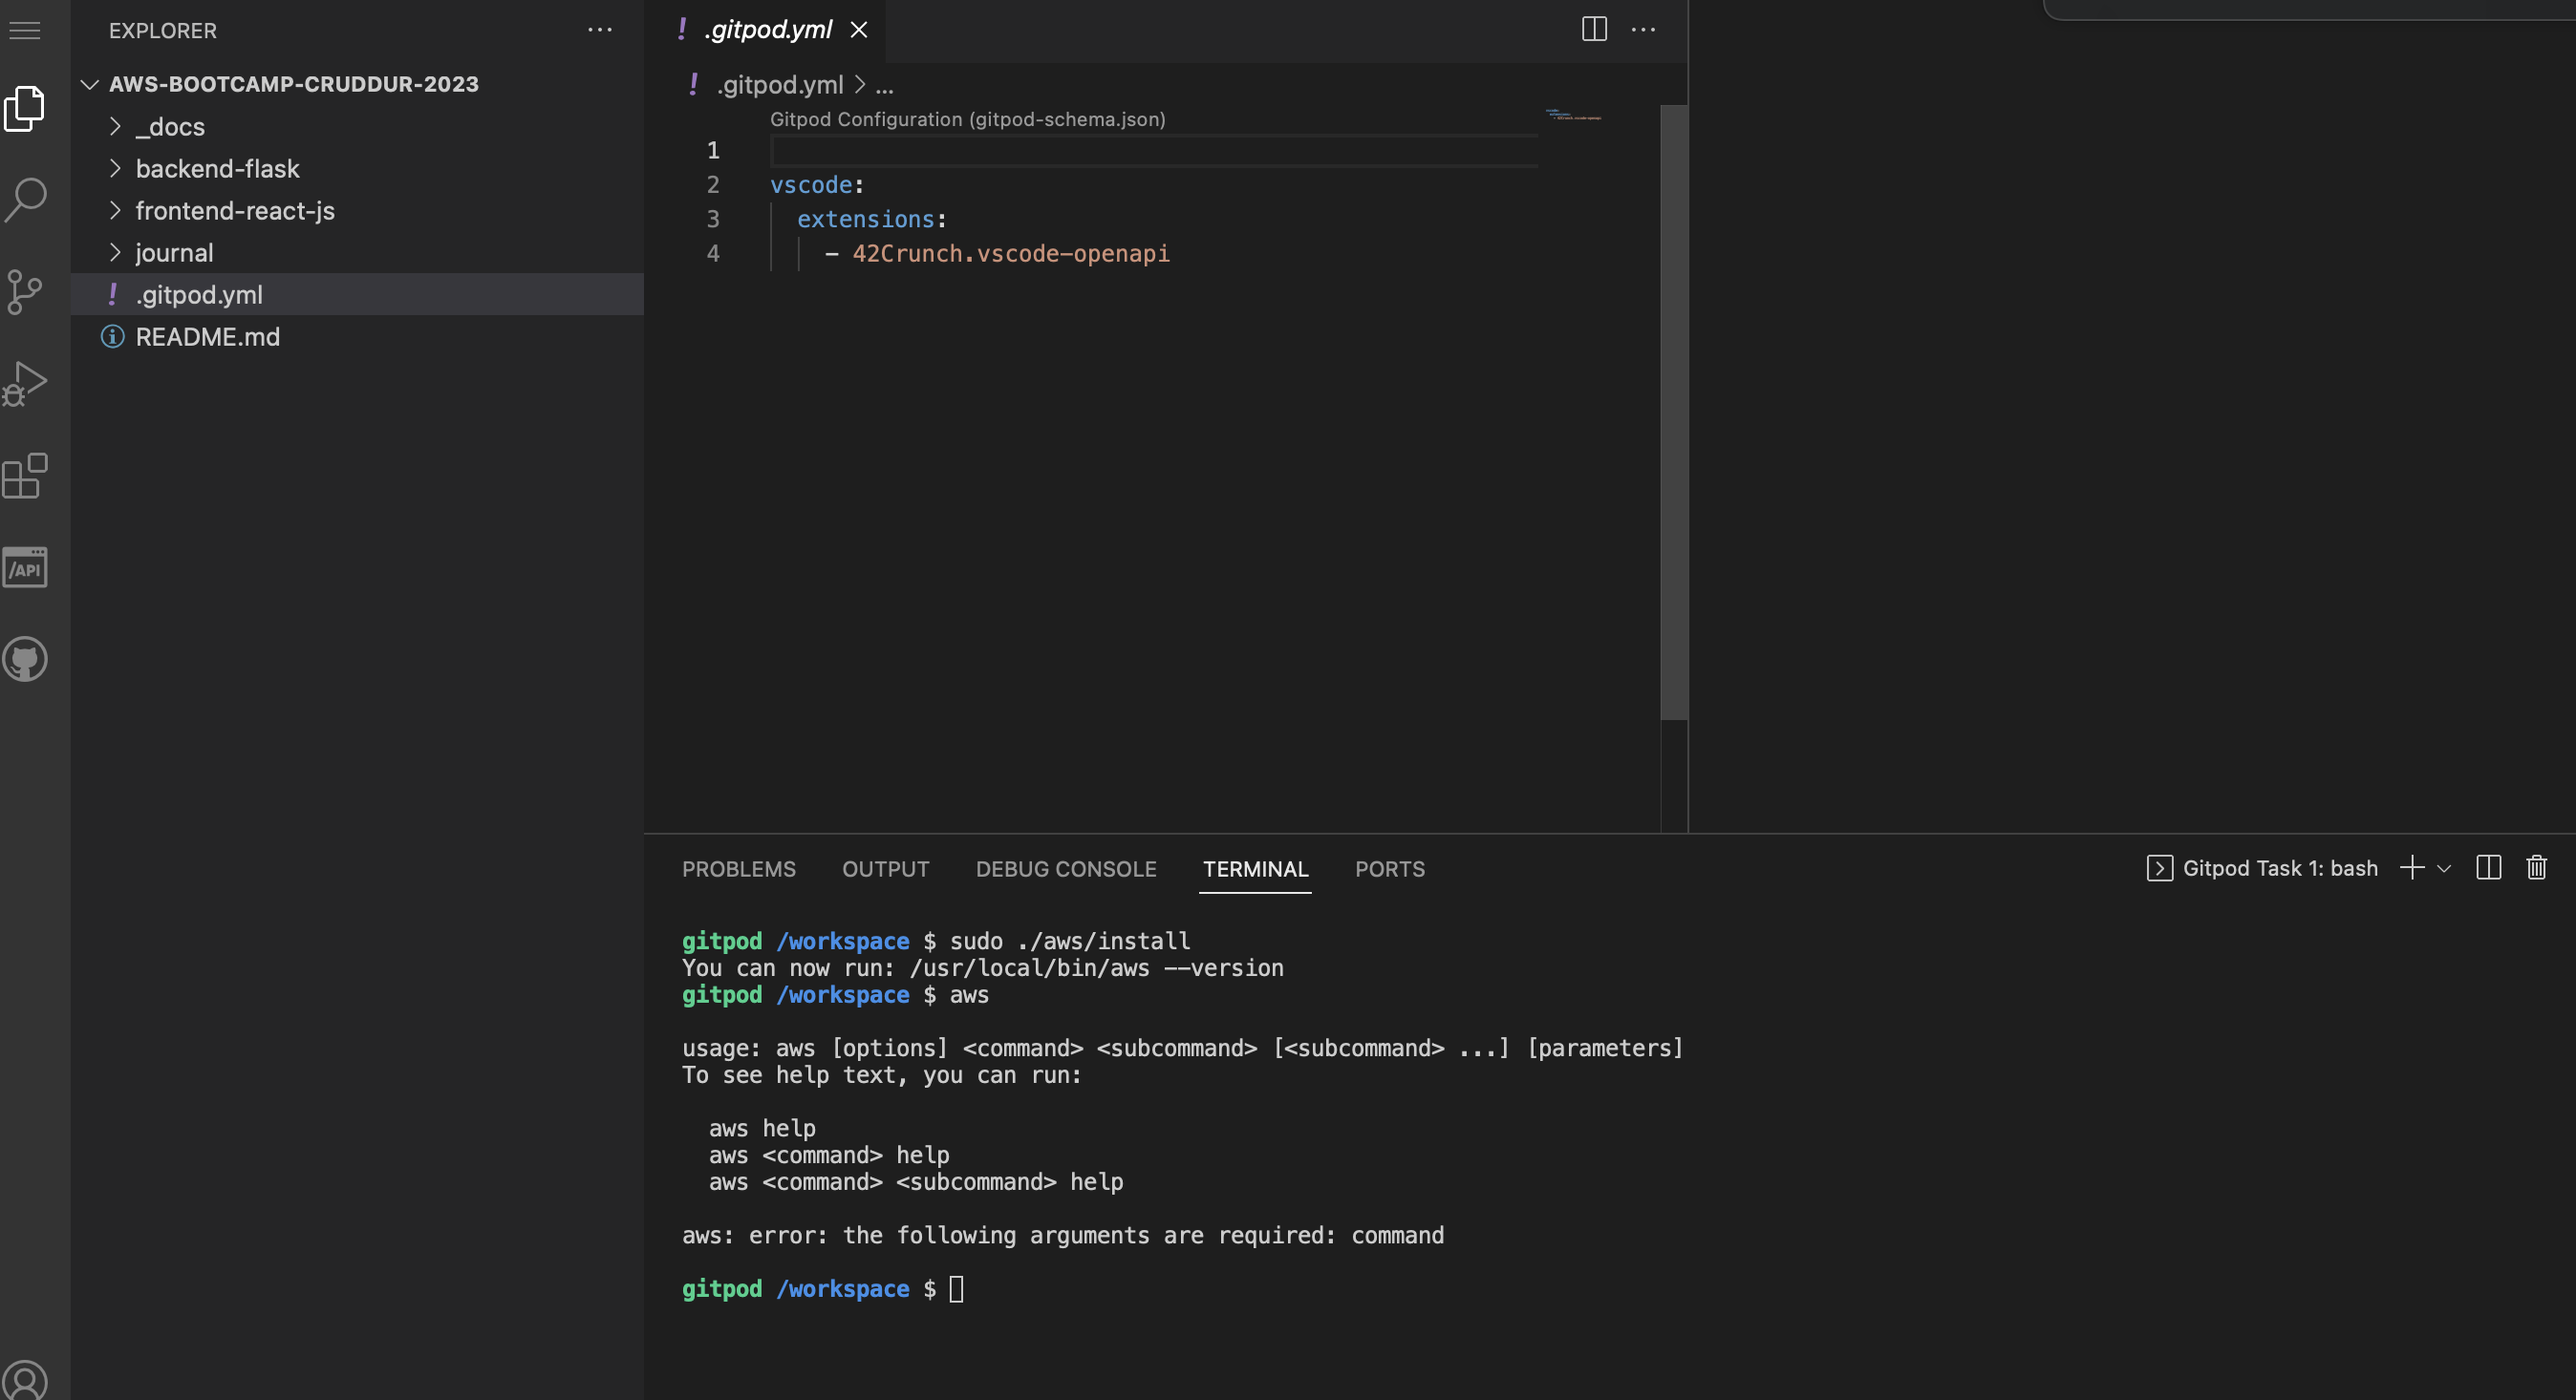
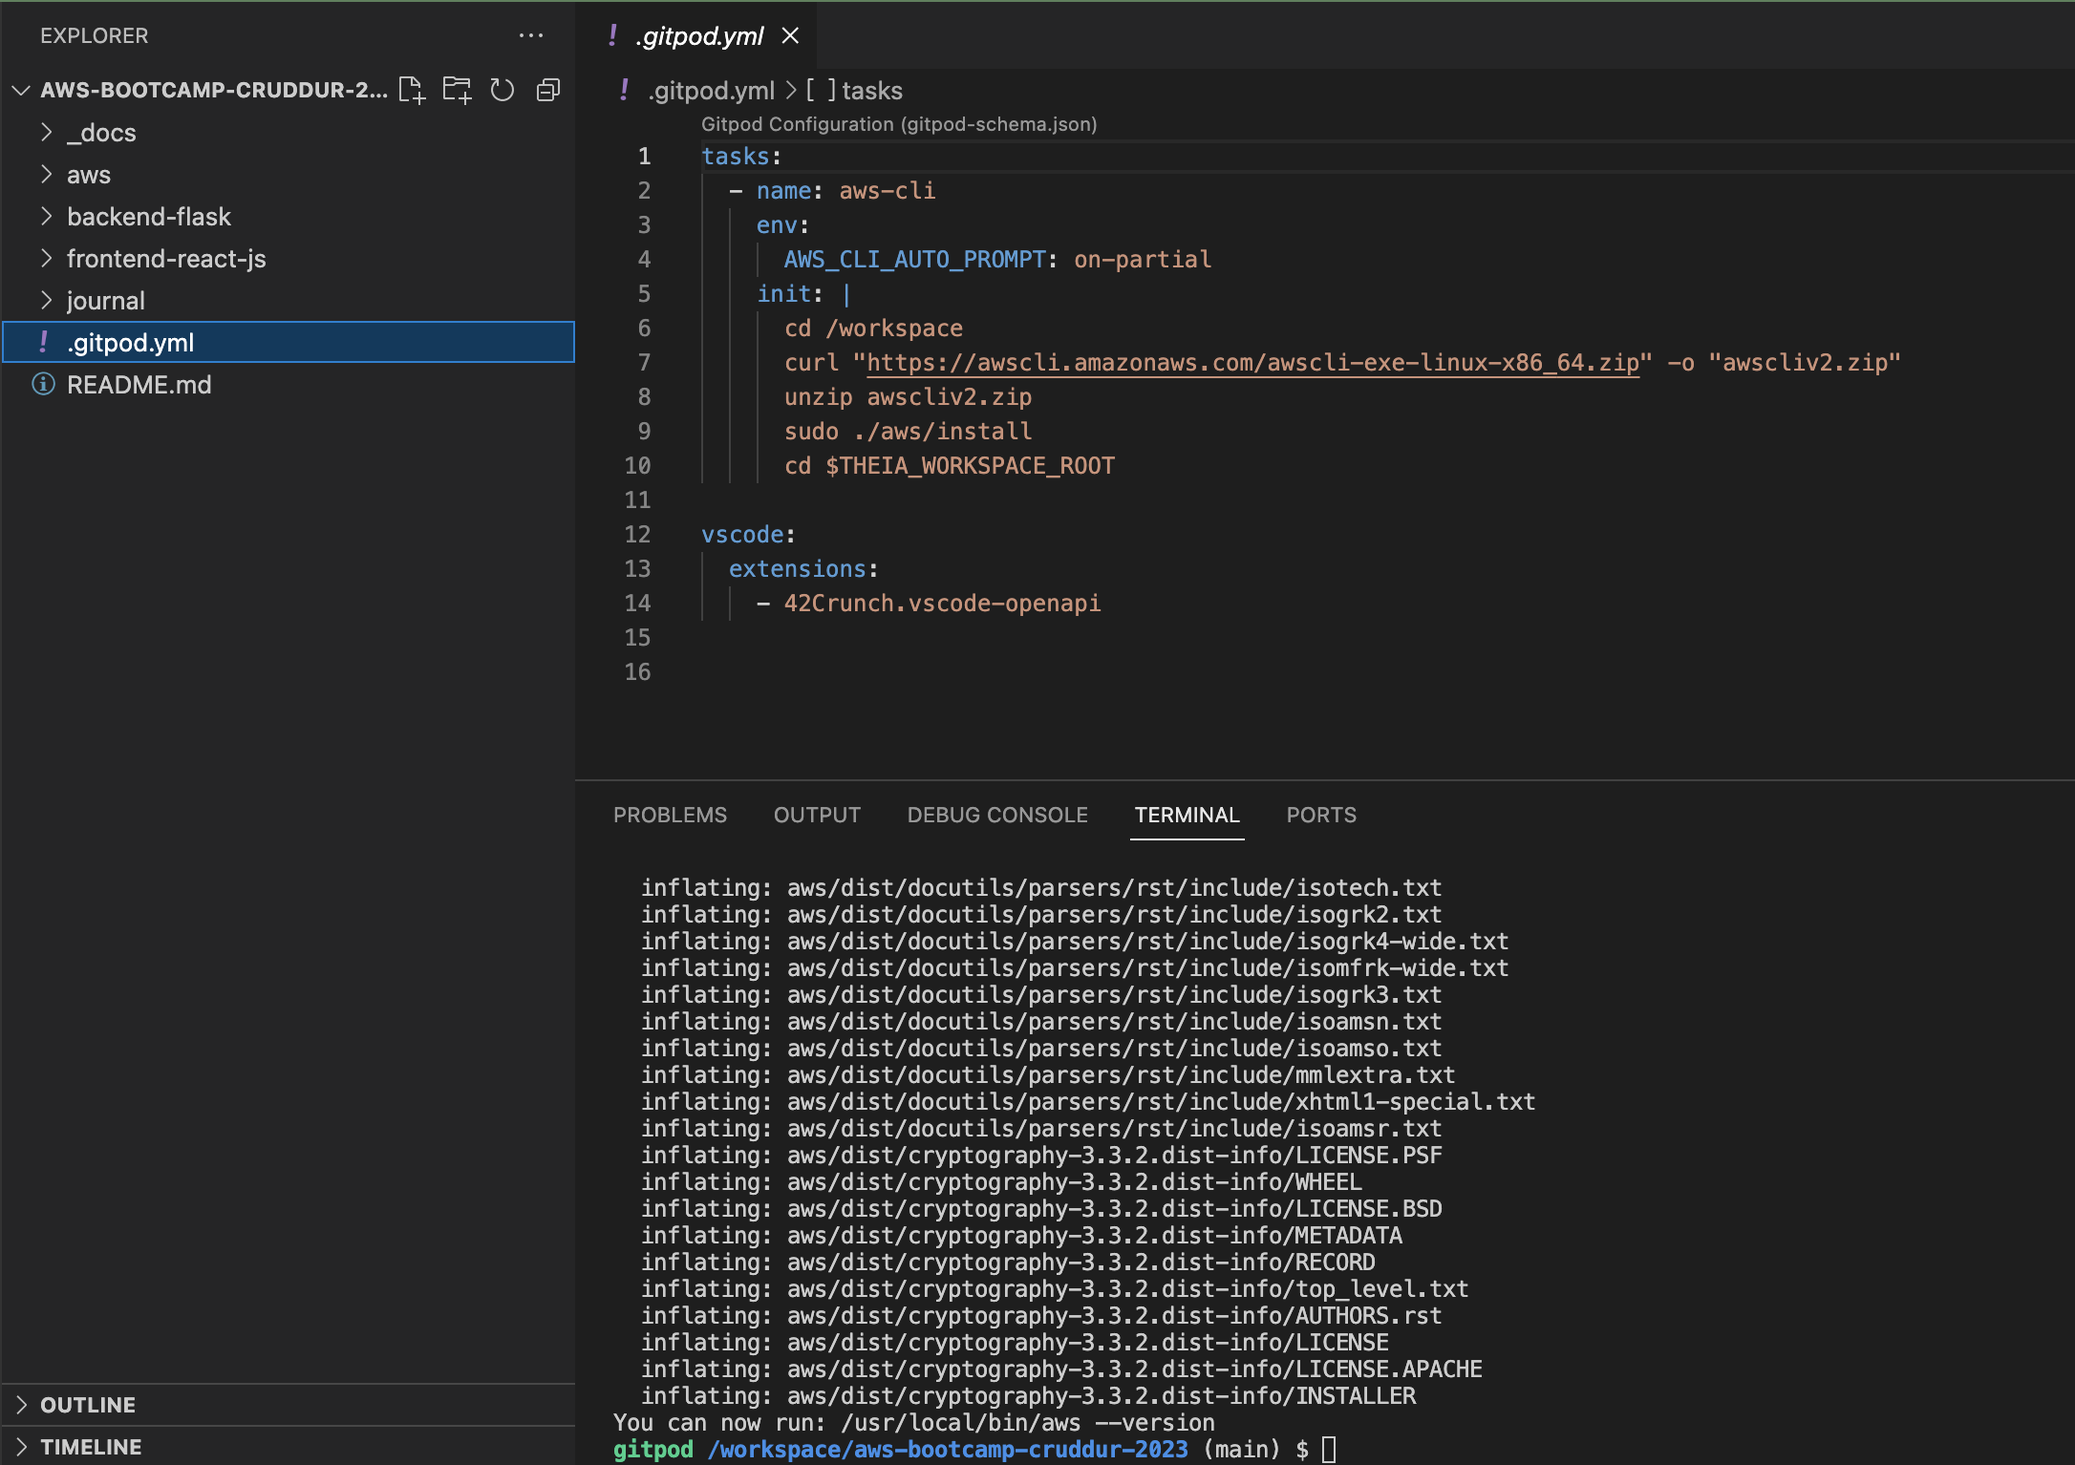
journal modification

diff --git a/journal/week0.md b/journal/week0.md
@@ -1,8 +1,15 @@
 # Week 0 — Billing, Security, and Architecture
 
-## Setup
+Welcome to my first journal for the AWS Cloud Project Free Bootcamp organized by Andrew Brown and his team. Thank you guys!
 
-Welcome to my first journal for the AWS Cloud Project Free Bootcamp organized by Andrew Brown and his team. 
+## App Architecture
+
+![Conceptual Architecture](../_docs/assets/week0/concept.png)
+
+![Logical Architecture](../_docs/assets/week0/logic.png)
+
+Lucidchart was used to illutrate the app conceptual, logical and infrastructural architecture. This is the [link](https://lucid.app/lucidchart/b20676bd-89b1-4ffa-a341-c9c269aef784/edit?viewport_loc=144%2C139%2C1579%2C867%2CZ2-xDaLVWdz9&invitationId=inv_06ff5e3b-1720-45a5-9413-434b1c83bff2) to the architecture. The challenge I had here was having limited number of icons I could use due to my free-tier account. I was able to streamline the architecture to arrive at something meaningful but minimal at the same time.
+## Setup
 
 For the bootcamp, participants were meant to setup some environments being tools for the projects.
 
@@ -18,23 +25,49 @@ Some of them include:
 
 In order to secure the Cloud Infrastructure, monitor cost and adhere to best practises, the following actions were taken.
 
-1. Multi-Factor Authentication (MFA) was enabled on the root user. 
+1. Multi-Factor Authentication (MFA) was enabled on the root user. This is to increase the security of user accounts by adding an extra layer of protection against unauthorized access. 
 
 ![Root MFA](../_docs/assets/week0/root-mfa.png)
 
-For the reason of security and best practices, the root user should not be used for daily activities. Therefore, I created an IAM user, created a group with `Admin` permissions and added the user to the group.
+For the reason of security and best practices, the root user should not be used for daily activities. Therefore, I created an IAM user, created a group, `Admin`, with `AdministratorAccess` permissions and added the user to the group.
 
 ![Root MFA](../_docs/assets/week0/usergroup.png)
 
-To secure this user, MFA was also enabled on it.
+To secure this user, MFA was also enabled on it. I also created and downloaded the CSV file with the user's `Access Key` and `Secret Access Key`.
 
 ![User MFA](../_docs/assets/week0/user-mfa.png)
 
+2. I installed AWS CLI manually on Gitpod. Then modified the `.gitpod.yml` file with the following code so that AWS CLI automatically installs whenever Gitpod workspace is launched.
 
-## App Architecture
+```
+tasks:
+  - name: aws-cli
+    env:
+      AWS_CLI_AUTO_PROMPT: on-partial
+    init: |
+      cd /workspace
+      curl "https://awscli.amazonaws.com/awscli-exe-linux-x86_64.zip" -o "awscliv2.zip"
+      unzip awscliv2.zip
+      sudo ./aws/install
+      cd $THEIA_WORKSPACE_ROOT
+```
 
-![Conceptual Architecture](../_docs/assets/week0/concept.png)
+![AWS CLI](../_docs/assets/week0/cli-install.png)
 
-![Logical Architecture](../_docs/assets/week0/logic.png)
+3. The AWS User credentials were set as environmental variables on the Gitpod bash with the following commands:
 
-Lucidchart was used to illutrate the app conceptual, logical and infrastructural architecture. This is the [link](https://lucid.app/lucidchart/b20676bd-89b1-4ffa-a341-c9c269aef784/edit?viewport_loc=144%2C139%2C1579%2C867%2CZ2-xDaLVWdz9&invitationId=inv_06ff5e3b-1720-45a5-9413-434b1c83bff2) to the architecture.
+```
+export AWS_ACCESS_KEY_ID=""
+export AWS_SECRET_ACCESS_KEY=""
+export AWS_DEFAULT_REGION=us-east-1
+```
+The variables were then subsisted with the following commands so that Gitpod 'remembers' them at relaunch.
+
+```
+gp env AWS_ACCESS_KEY_ID=""
+gp env AWS_SECRET_ACCESS_KEY=""
+gp env AWS_DEFAULT_REGION=us-east-1
+```
+
+![env vars](../_docs/assets/week0/aws-keys.png)
+
